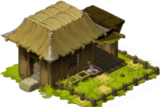
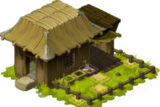
beta 0.7 ================= -Fix building placement bug =================

Changed region(s): [[0.0, 0.0, 1.0, 1.0], [0.4062, 0.1121, 0.4375, 0.1402], [0.3438, 0.1682, 0.375, 0.1963]]

diff --git a/client/js/lib/fcl.js b/client/js/lib/fcl.js
@@ -262,12 +262,21 @@ define(['jquery', './vector2', './kinetic', './tweenlite'], function(jQuery, Vec
                var zIndex = undefined;
 
                if (elementToRemove.image != undefined){
-                   elementToRemove.image.remove();
                    zIndex = elementToRemove.image.getZIndex();
                }
                else {
                    zIndex = 1000;
                }
+
+               console.log("zIndex: " + zIndex);
+
+                for(var i=0; i<building.locations.length; i++){
+                    var currentLocation = building.locations[i];
+                    if (app.World[currentLocation.X][currentLocation.Y].image != undefined){
+                        app.World[currentLocation.X][currentLocation.Y].image.remove();
+                        app.World[currentLocation.X][currentLocation.Y].image = undefined;
+                    }
+                }
 
                if (self.app.World[elementToRemove.X][elementToRemove.Y].XPx == undefined){
 
@@ -294,10 +303,10 @@ define(['jquery', './vector2', './kinetic', './tweenlite'], function(jQuery, Vec
                    this.putTexture(new Vector2(elementToRemove.XPx, elementToRemove.YPx - 48), app.Ressources[app.Config.tileType.grangeP] , app.World[mainPos.X][mainPos.Y], this.L_NAME.buildings, zIndex);
                }
                else if (tileType == app.Config.tileType.grangeM) {
-                   this.putTexture(new Vector2(elementToRemove.XPx - (app.Config.tileWidth / 2), elementToRemove.YPx - 67), app.Ressources[app.Config.tileType.grangeM] , app.World[mainPos.X][mainPos.Y], this.L_NAME.buildings, zIndex);
+                   this.putTexture(new Vector2(elementToRemove.XPx - (app.Config.tileWidth / 2), elementToRemove.YPx - (71 - app.Config.tileHeight)), app.Ressources[app.Config.tileType.grangeM] , app.World[mainPos.X][mainPos.Y], this.L_NAME.buildings, zIndex);
                }
                else if (tileType == app.Config.tileType.grangeG) {
-                   this.putTexture(new Vector2(elementToRemove.XPx - app.Config.tileWidth, elementToRemove.YPx - 100), app.Ressources[app.Config.tileType.grangeG] , app.World[element.X][element.Y], this.L_NAME.buildings, zIndex);
+                   this.putTexture(new Vector2(elementToRemove.XPx - (app.Config.tileWidth+5), elementToRemove.YPx - (105 - app.Config.tileHeight)), app.Ressources[app.Config.tileType.grangeG] , app.World[mainPos.X][mainPos.Y], this.L_NAME.buildings, zIndex);
                }
                else {
                    this.putTexture(new Vector2(elementToRemove.XPx, elementToRemove.YPx), this.getImageFromType(tileType, action), app.World[element.X][element.Y], this.L_NAME.tiles, zIndex);

diff --git a/client/js/controllers/gameController.js b/client/js/controllers/gameController.js
@@ -410,20 +410,17 @@ define(['jquery', '../lib/jquery-ui', '../lib/vector2', '../lib/fcl', '../entity
 
                                         case self.app.Config.tileType.grangeP:
                                             if(tile.contentTile.mainPos != undefined && tile.contentTile.mainPos.X == tile.X && tile.contentTile.mainPos.Y == tile.Y)
-                                                console.log("MAIN POS OF SMALL GRANGE DRAWN: " + tile.X + "/" + tile.Y);
                                                 this.canvas.putTexture(new Vector2(tile.XPx, tile.YPx - 48), this.app.Ressources[app.Config.tileType.grangeP] , world[i][j], this.canvas.L_NAME.buildings, countCurrentTile);
                                             break;
 
                                         case self.app.Config.tileType.grangeM:
                                             if(tile.contentTile.mainPos != undefined && tile.contentTile.mainPos.X == tile.X && tile.contentTile.mainPos.Y == tile.Y)
-                                                console.log("MAIN POS OF MEDIUM GRANGE DRAWN: " + tile.X + "/" + tile.Y);
-                                                this.canvas.putTexture(new Vector2(tile.XPx - tileWidth / 2, tile.YPx - 67), this.app.Ressources[app.Config.tileType.grangeM] , world[i][j], this.canvas.L_NAME.buildings, countCurrentTile);
+                                                this.canvas.putTexture(new Vector2(tile.XPx - tileWidth / 2, tile.YPx - (71 - tileHeight)), this.app.Ressources[app.Config.tileType.grangeM] , world[i][j], this.canvas.L_NAME.buildings, countCurrentTile);
                                             break;
 
                                         case self.app.Config.tileType.grangeG:
                                             if(tile.contentTile.mainPos != undefined && tile.contentTile.mainPos.X == tile.X && tile.contentTile.mainPos.Y == tile.Y)
-                                                console.log("MAIN POS OF BIG GRANGE DRAWN: " + tile.X + "/" + tile.Y);
-                                                this.canvas.putTexture(new Vector2(tile.XPx - tileWidth, tile.YPx - 100), this.app.Ressources[app.Config.tileType.grangeG] , world[i][j], this.canvas.L_NAME.buildings, countCurrentTile);
+                                                this.canvas.putTexture(new Vector2(tile.XPx - (tileWidth+5), tile.YPx - (105 - tileHeight)), this.app.Ressources[app.Config.tileType.grangeG] , world[i][j], this.canvas.L_NAME.buildings, countCurrentTile);
                                             break;
                                         default:
                                             break;

diff --git a/server/controllers/farmingController.js b/server/controllers/farmingController.js
@@ -234,8 +234,21 @@ FarmingController = function(socket, db, mongoose){
                     		            currentT.save(function(err, curTile){
 
                                             var curTileObject = curTile.getAsObject();
+
                                             curTileObject.contentTile = content.getAsObject();
-                                            G.World[curTileObject.X][curTileObject.Y] = curTileObject;
+
+                                            console.log(curTileObject);
+
+                                            ContentTile.findById(curTileObject.contentTile).populate("owner locations mainPos").exec(function(err, contentTileDB){
+                                                //Set contentTile
+                                                curTileObject.contentTile = contentTileDB.getAsObject();
+
+                                                //Add to the server world
+                                                if(G.World[curTileObject.X] == undefined){ G.World[curTileObject.X] = new Object(); }
+                                                G.World[curTileObject.X][curTileObject.Y] = curTileObject;
+                                            });
+
+
 
                                             if(curTileObject.X == resp.tile.X && curTileObject.Y == resp.tile.Y){
                                                 buildingClient.mainPos = curTileObject;

diff --git a/client/js/entity/tile.js b/client/js/entity/tile.js
@@ -18,6 +18,7 @@ define(['jquery'], function(jQuery){
 
 		clickEvent: function(){
             //socket.emit("plantTest", { X: this.X, Y: this.Y});
+            console.log(this);
             if (this.walkable){
                 if (!socket.sessions.farmer.isWorking){
                     if(socket.sessions.farmer.isHarvesting){
